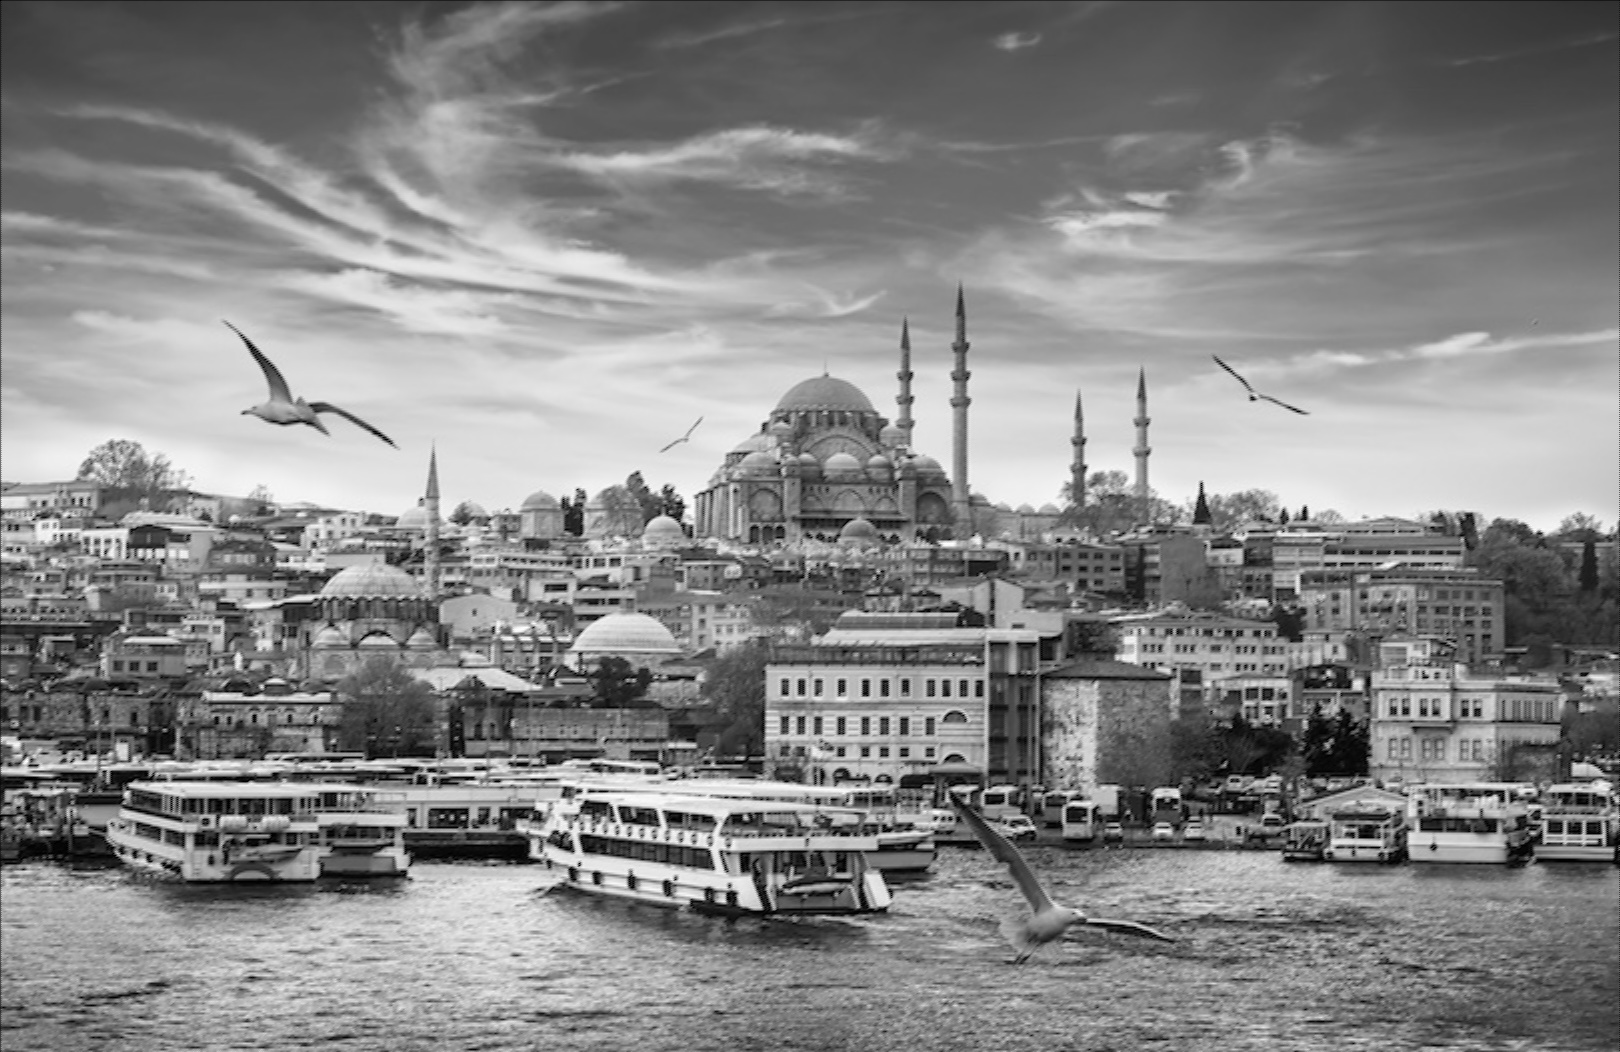
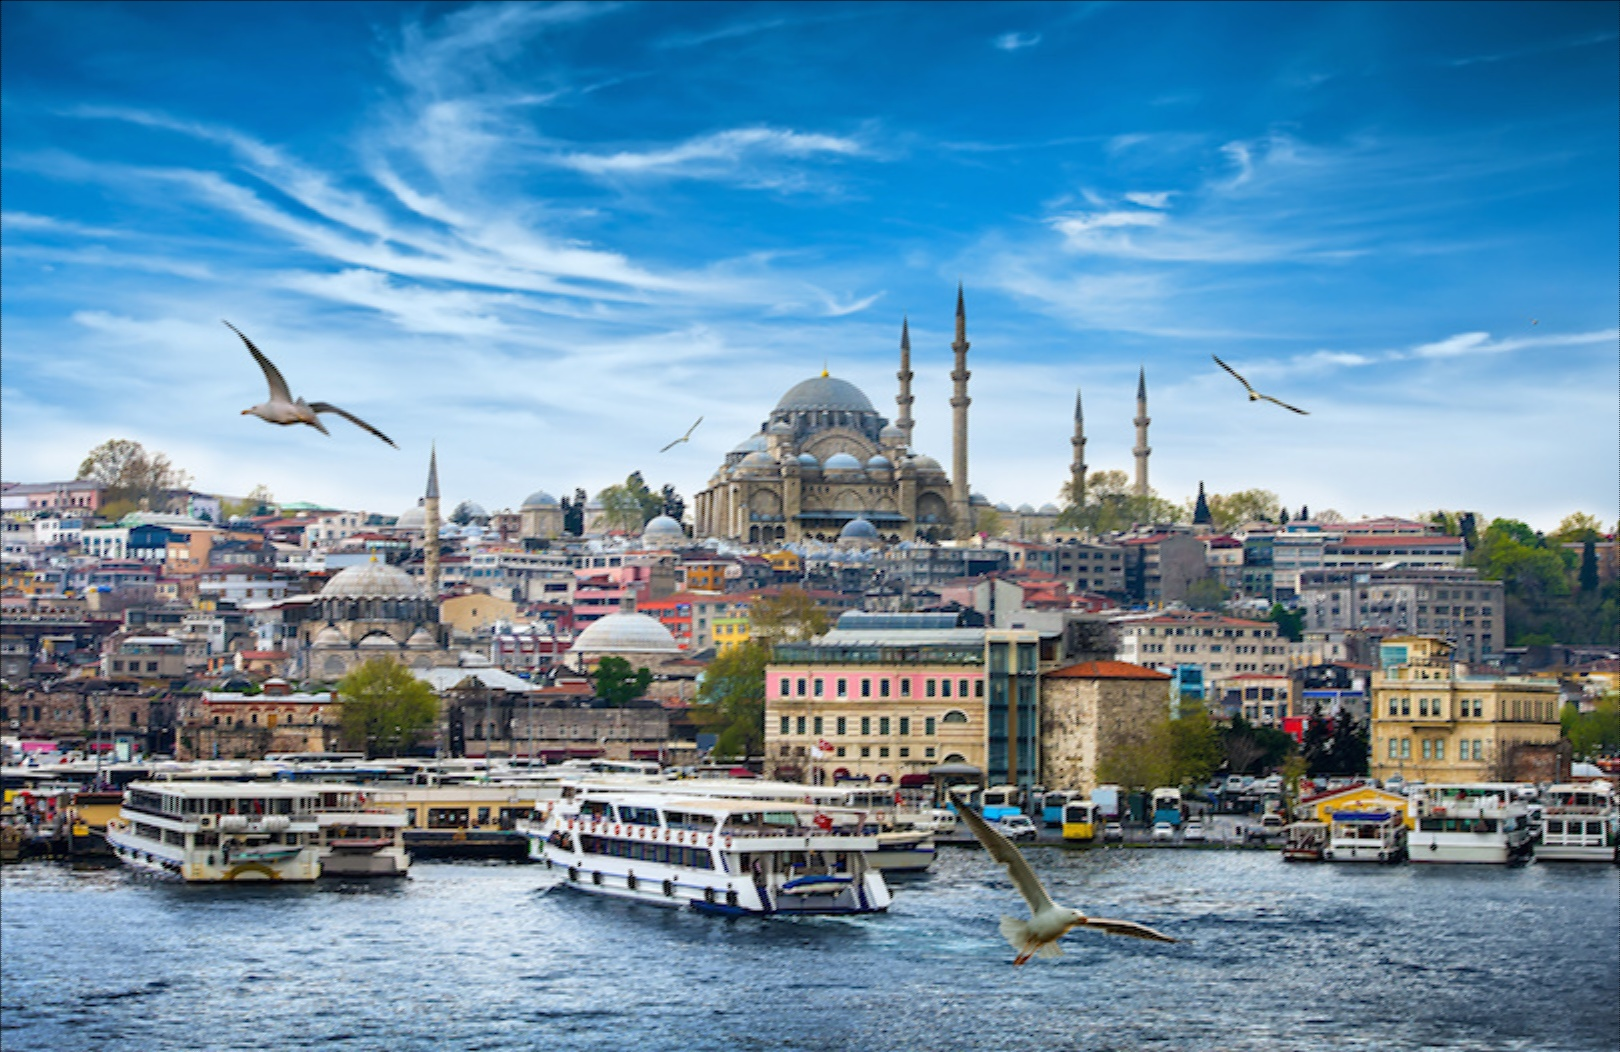
adjust algorithm to handle rgb images

diff --git a/algo.py b/algo.py
@@ -8,26 +8,30 @@ def diagonals(out: list, x: int, y: int):
     rows = len(out)
     cols = len(out[0])
     
-    diag_ul = out[x - 1][y - 1] if is_in_bounds(x - 1, y - 1, rows, cols) else 0
-    diag_ur = out[x - 1][y + 1] if is_in_bounds(x - 1, y + 1, rows, cols) else 0
-    diag_dl = out[x + 1][y - 1] if is_in_bounds(x + 1, y - 1, rows, cols) else 0
-    diag_dr = out[x + 1][y + 1] if is_in_bounds(x + 1, y + 1, rows, cols) else 0
+    diag_ul = out[x - 1][y - 1] if is_in_bounds(x - 1, y - 1, rows, cols) else [0, 0, 0]
+    diag_ur = out[x - 1][y + 1] if is_in_bounds(x - 1, y + 1, rows, cols) else [0, 0, 0]
+    diag_dl = out[x + 1][y - 1] if is_in_bounds(x + 1, y - 1, rows, cols) else [0, 0, 0]
+    diag_dr = out[x + 1][y + 1] if is_in_bounds(x + 1, y + 1, rows, cols) else [0, 0, 0]
     
-    dD_1 = abs(diag_ul - diag_dr)
-    dD_2 = abs(diag_ur - diag_dl)
-    dS_1 = diag_ul + diag_dr
-    dS_2 = diag_ur + diag_dl
+    dD_1 = [abs(x - y) for x, y in zip(diag_ul, diag_dr)]
+    dD_2 = [abs(x - y) for x, y in zip(diag_ur, diag_dl)]
+    dS_1 = [x + y for x, y in zip(diag_ul, diag_dr)]
+    dS_2 = [x + y for x, y in zip(diag_ur, diag_dl)]
     
     return dD_1, dD_2, dS_1, dS_2
 
 
 def inverse_gradient_weight(dD_1, dD_2):
-    if dD_1 == dD_2 == 0:
-        return 0.5
-    elif dD_1 > dD_2:
-        return dD_2 / (dD_1 + dD_2)
-    else:
-        return dD_1 / (dD_1 + dD_2)
+    W = [0, 0, 0]
+    for i in range(3):
+        if dD_1[i] == dD_2[i] == 0:
+            W[i] = 0.5
+        elif dD_1[i] > dD_2[i]:
+            W[i] = dD_2[i] / (dD_1[i] + dD_2[i])
+        else:
+            W[i] = dD_1[i] / (dD_1[i] + dD_2[i])
+    
+    return W
     
     
 def weight_near_far(P):
@@ -36,11 +40,11 @@ def weight_near_far(P):
     return W_N, W_F
 
 
-# image is grayscale
+# image is bgr
 def edge_preserving_interpolation(image: np.ndarray, P: int):
     rows = image.shape[0]
     cols = image.shape[1]
-    out = [[255 for _ in range(2 * cols)] for _ in range(2 * rows)]
+    out = [[[255, 255, 255] for _ in range(2 * cols)] for _ in range(2 * rows)]
     
     # TODO: add affine transformation
     for i in range(rows):
@@ -51,30 +55,30 @@ def edge_preserving_interpolation(image: np.ndarray, P: int):
         for j in range(cols):
             dD_1, dD_2, dS_1, dS_2 = diagonals(out, 2 * i, 2 * j)
             W = inverse_gradient_weight(dD_1, dD_2)
-            out[2 * i][2 * j] = (W * dS_1 + (1 - W) * dS_2) / 2
+            out[2 * i][2 * j] = [(W[i] * dS_1[i] + (1 - W[i]) * dS_2[i]) / 2 for i in range(3)]
 
     W_near, W_far = weight_near_far(P)
     for i in range(rows):
         for j in range(cols):
             x = 2 * i + 1 # odd
             y = 2 * j # even
-            nbor_l = out[x][y - 1] if is_in_bounds(x, y - 1, 2 * rows, 2 * cols) else 0
-            nbor_r = out[x][y + 1] if is_in_bounds(x, y + 1, 2 * rows, 2 * cols) else 0
-            nbor_ul = out[x - 2][y - 1] if is_in_bounds(x - 2, y - 1, 2 * rows, 2 * cols) else 0
-            nbor_ur = out[x - 2][y + 1] if is_in_bounds(x - 2, y + 1, 2 * rows, 2 * cols) else 0
-            nbor_dl = out[x + 2][y - 1] if is_in_bounds(x + 2, y - 1, 2 * rows, 2 * cols) else 0
-            nbor_dr = out[x + 2][y + 1] if is_in_bounds(x + 2, y + 1, 2 * rows, 2 * cols) else 0
-            out[x][y] = (W_near * (nbor_l + nbor_r)) + (W_far * (nbor_ul + nbor_ur + nbor_dl + nbor_dr))
+            nbor_l = out[x][y - 1] if is_in_bounds(x, y - 1, 2 * rows, 2 * cols) else [0, 0, 0]
+            nbor_r = out[x][y + 1] if is_in_bounds(x, y + 1, 2 * rows, 2 * cols) else [0, 0, 0]
+            nbor_ul = out[x - 2][y - 1] if is_in_bounds(x - 2, y - 1, 2 * rows, 2 * cols) else [0, 0, 0]
+            nbor_ur = out[x - 2][y + 1] if is_in_bounds(x - 2, y + 1, 2 * rows, 2 * cols) else [0, 0, 0]
+            nbor_dl = out[x + 2][y - 1] if is_in_bounds(x + 2, y - 1, 2 * rows, 2 * cols) else [0, 0, 0]
+            nbor_dr = out[x + 2][y + 1] if is_in_bounds(x + 2, y + 1, 2 * rows, 2 * cols) else [0, 0, 0]
+            out[x][y] = [(W_near * (nbor_l[i] + nbor_r[i])) + (W_far * (nbor_ul[i] + nbor_ur[i] + nbor_dl[i] + nbor_dr[i])) for i in range(3)]
             
             x = 2 * i # even
             y = 2 * j + 1 # odd
-            nbor_l = out[x][y - 1] if is_in_bounds(x, y - 1, 2 * rows, 2 * cols) else 0
-            nbor_r = out[x][y + 1] if is_in_bounds(x, y + 1, 2 * rows, 2 * cols) else 0
-            nbor_ul = out[x - 2][y - 1] if is_in_bounds(x - 2, y - 1, 2 * rows, 2 * cols) else 0
-            nbor_ur = out[x - 2][y + 1] if is_in_bounds(x - 2, y + 1, 2 * rows, 2 * cols) else 0
-            nbor_dl = out[x + 2][y - 1] if is_in_bounds(x + 2, y - 1, 2 * rows, 2 * cols) else 0
-            nbor_dr = out[x + 2][y + 1] if is_in_bounds(x + 2, y + 1, 2 * rows, 2 * cols) else 0
-            out[x][y] = (W_near * (nbor_l + nbor_r)) + (W_far * (nbor_ul + nbor_ur + nbor_dl + nbor_dr))
+            nbor_l = out[x][y - 1] if is_in_bounds(x, y - 1, 2 * rows, 2 * cols) else [0, 0, 0]
+            nbor_r = out[x][y + 1] if is_in_bounds(x, y + 1, 2 * rows, 2 * cols) else [0, 0, 0]
+            nbor_ul = out[x - 2][y - 1] if is_in_bounds(x - 2, y - 1, 2 * rows, 2 * cols) else [0, 0, 0]
+            nbor_ur = out[x - 2][y + 1] if is_in_bounds(x - 2, y + 1, 2 * rows, 2 * cols) else [0, 0, 0]
+            nbor_dl = out[x + 2][y - 1] if is_in_bounds(x + 2, y - 1, 2 * rows, 2 * cols) else [0, 0, 0]
+            nbor_dr = out[x + 2][y + 1] if is_in_bounds(x + 2, y + 1, 2 * rows, 2 * cols) else [0, 0, 0]
+            out[x][y] = [(W_near * (nbor_l[i] + nbor_r[i])) + (W_far * (nbor_ul[i] + nbor_ur[i] + nbor_dl[i] + nbor_dr[i])) for i in range(3)]
             
     return out
             

diff --git a/main.py b/main.py
@@ -3,7 +3,7 @@ import numpy as np
 from algo import edge_preserving_interpolation
 
 if __name__ == '__main__':
-    image = cv2.imread('istanbul.jpg', cv2.IMREAD_GRAYSCALE)
+    image = cv2.imread('istanbul.jpg')
     image = image.astype('int32')
     
     out = edge_preserving_interpolation(image, 50)
